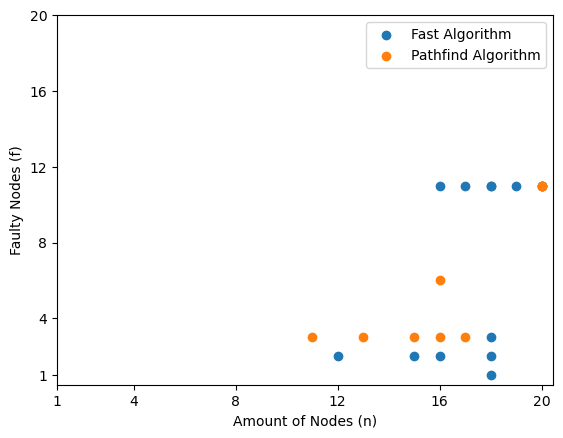
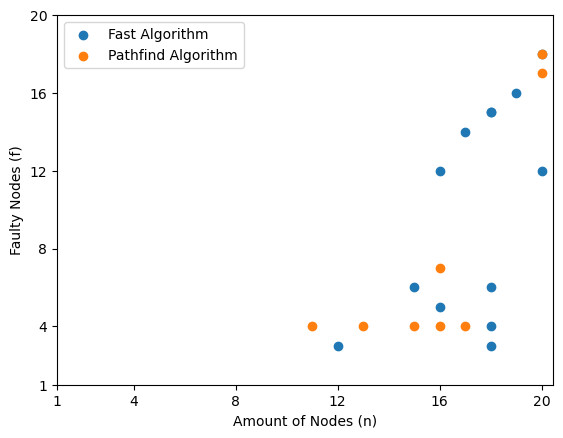
feat: add counting of total failures for percentages

diff --git a/dissyssym/src/failure.rs b/dissyssym/src/failure.rs
@@ -31,6 +31,9 @@ async fn main() {
     let handle = tokio::runtime::Handle::current();
     let _ = handle.enter();
 
+    let total = Arc::new(Mutex::new(0));
+    let fails_p = Arc::new(Mutex::new(0));
+    let fails_f = Arc::new(Mutex::new(0));
     let results = Mutex::new(File::create("./failures.data").unwrap());
 
     entries.par_iter().for_each(|path| {
@@ -50,6 +53,8 @@ async fn main() {
                 cache_f.clone(),
             ));
 
+            *total.lock().unwrap() += 1;
+
             if !resr_p {
                 let result = format!(
                     "n: {}, f: {}, c: {}, a: p\n",
@@ -58,6 +63,7 @@ async fn main() {
                     top.get_c()
                 );
 
+                *fails_p.lock().unwrap() += 1;
                 results.lock().unwrap().write(result.as_bytes()).unwrap();
                 print!("{}", result);
             }
@@ -70,11 +76,19 @@ async fn main() {
                     top.get_c()
                 );
 
+                *fails_f.lock().unwrap() += 1;
                 results.lock().unwrap().write(result.as_bytes()).unwrap();
                 print!("{}", result);
             }
         }
     });
+
+    println!(
+        "Total: {} | P Fails: {} | F Fails: {}",
+        total.lock().unwrap(),
+        fails_p.lock().unwrap(),
+        fails_f.lock().unwrap(),
+    )
 }
 
 async fn run_simulation<T: Algorithm + Send + Sync + 'static>(

diff --git a/scripts/graph_failure.py b/scripts/graph_failure.py
@@ -18,10 +18,10 @@ for line in lines:
 
     if a == "f":
         fast_x.append(n)
-        fast_y.append(f)
+        fast_y.append(c)
     else:
         path_x.append(n)
-        path_y.append(f)
+        path_y.append(c)
 
 plt.scatter(fast_x, fast_y, label="Fast Algorithm")
 plt.scatter(path_x, path_y, label="Pathfind Algorithm")
